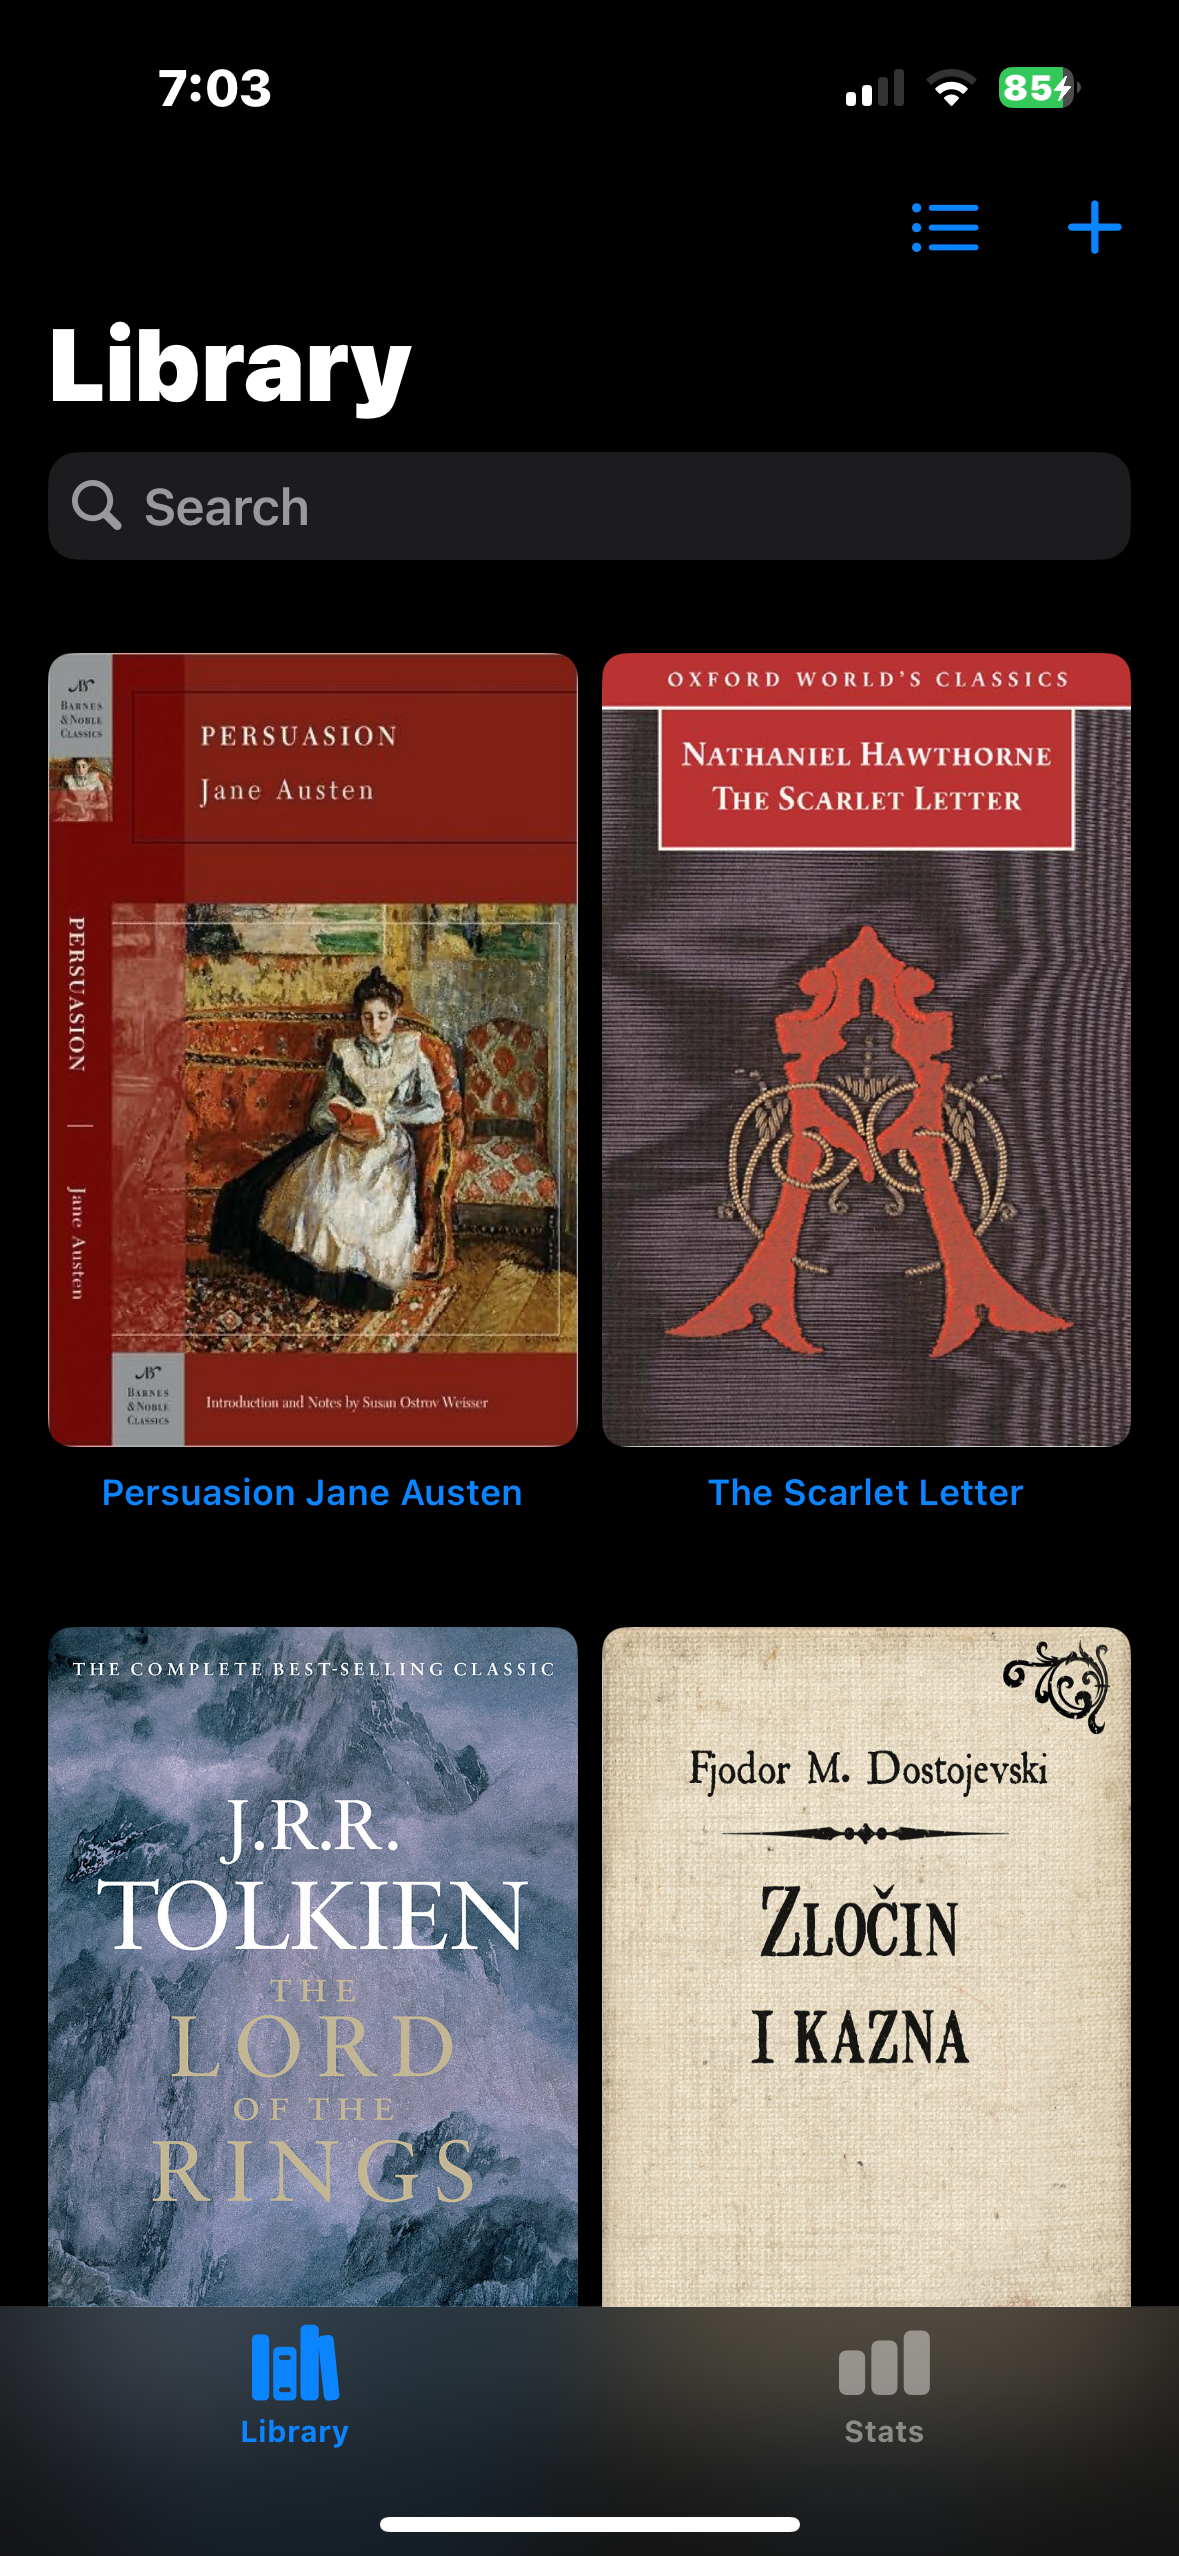
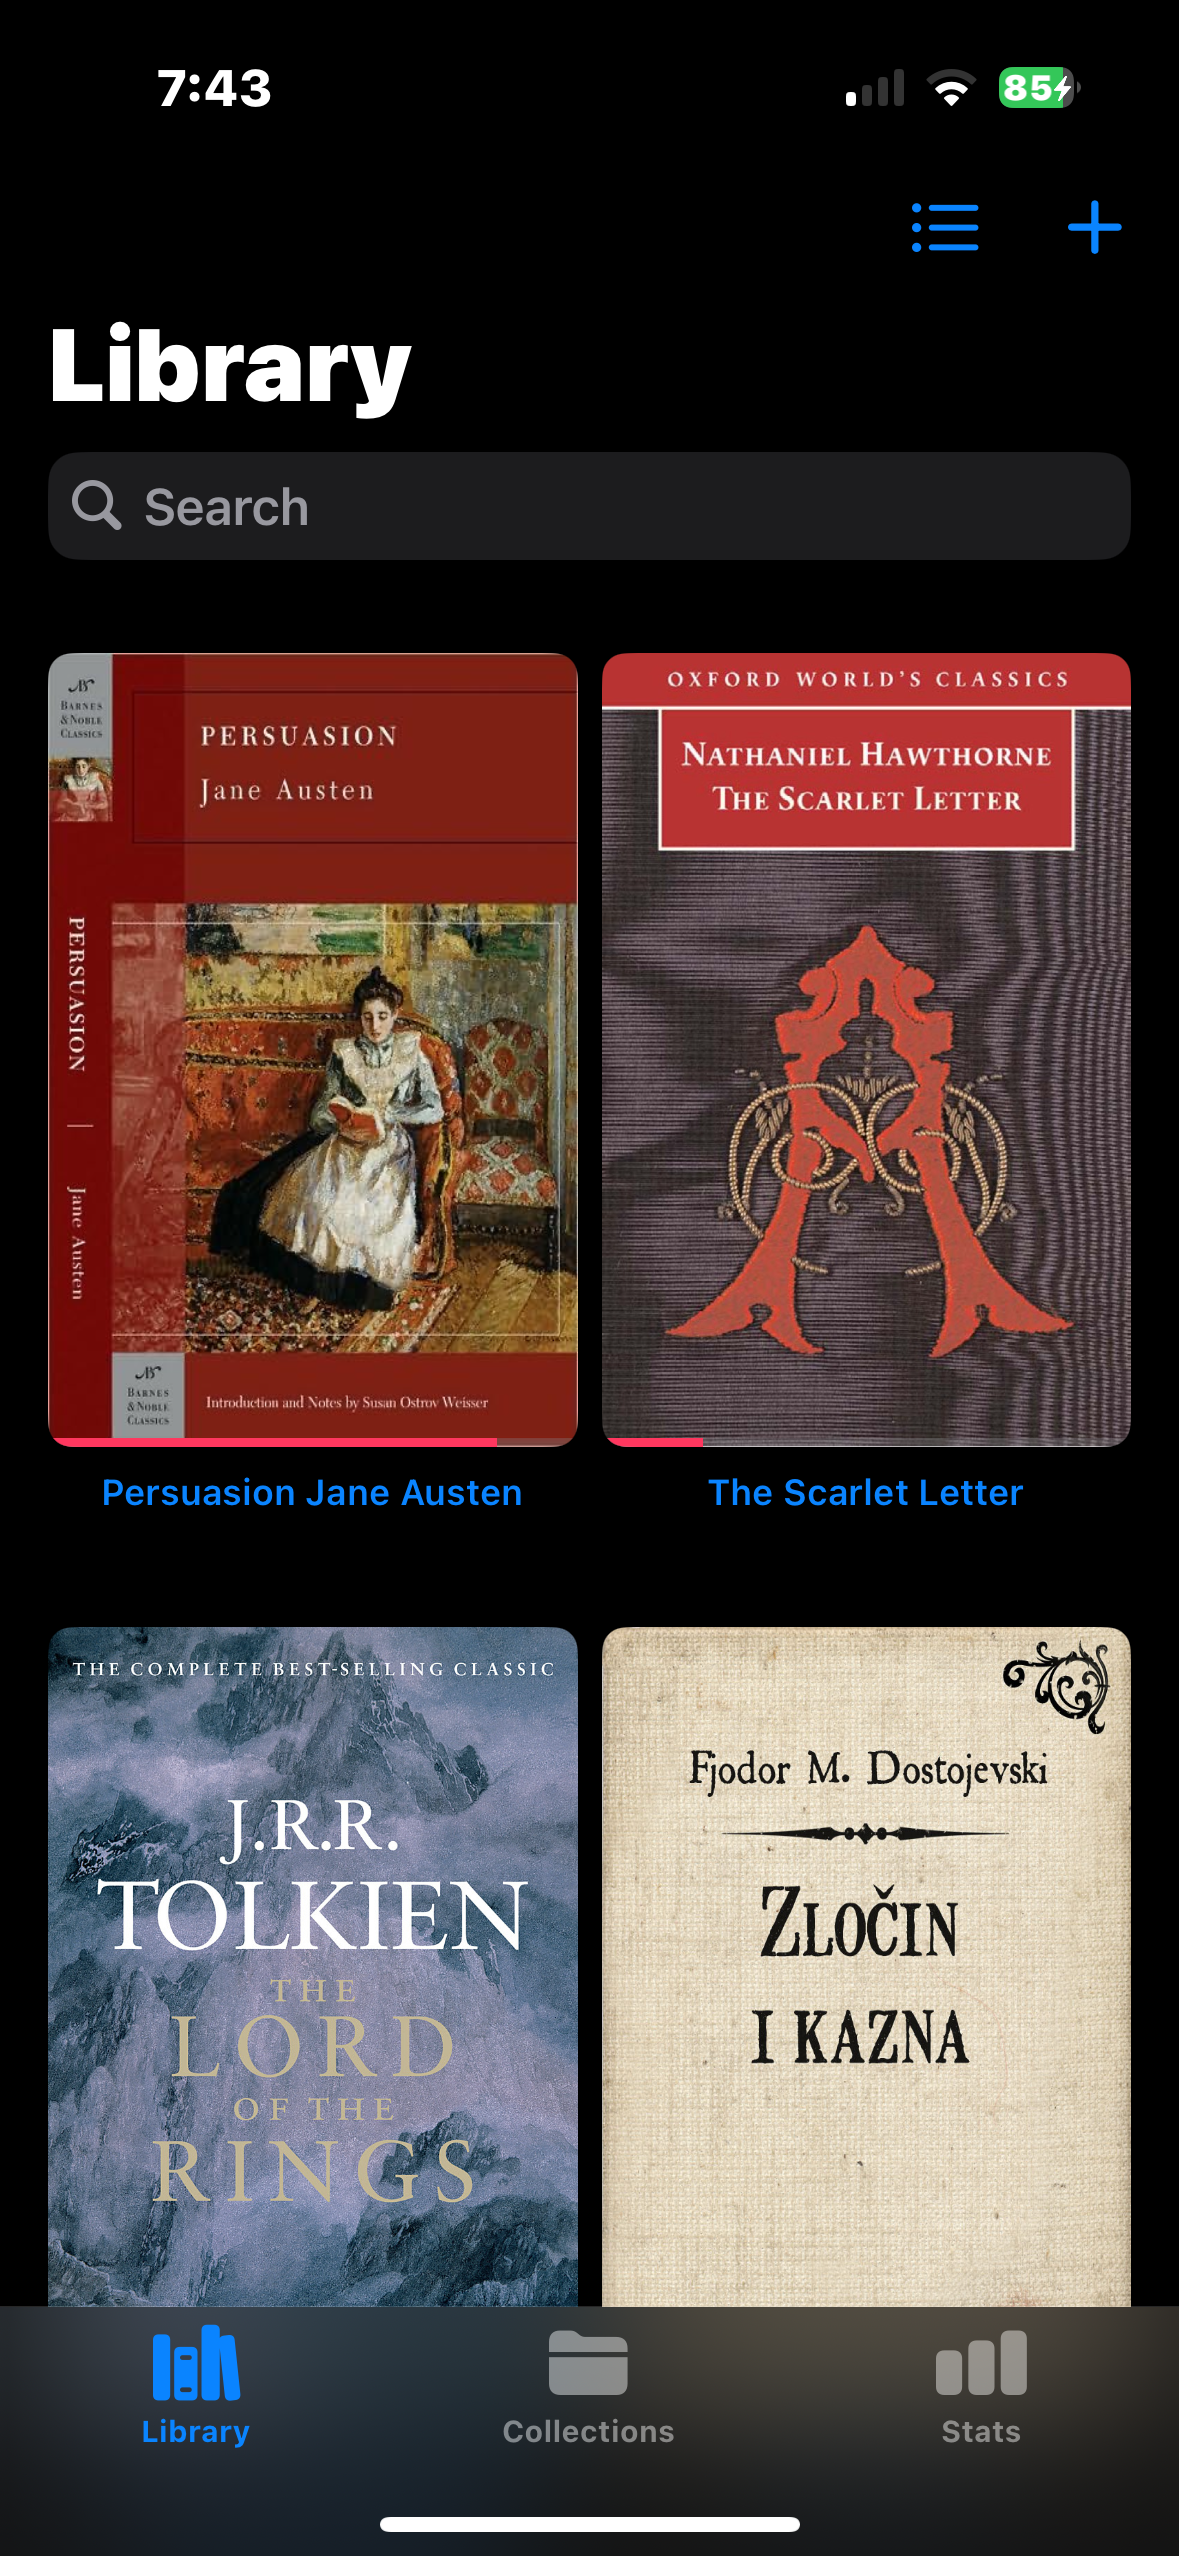
added collections to organize books into shelves

diff --git a/swift-ereader/Views/Library/CollectionDetailView.swift b/swift-ereader/Views/Library/CollectionDetailView.swift
@@ -1,0 +1,122 @@
+import SwiftUI
+import SwiftData
+
+struct CollectionDetailView: View {
+    @Environment(\.modelContext) private var modelContext
+    @Query private var allBooks: [Book]
+    let collection: BookCollection
+    @State private var showAddBooks = false
+
+    var books: [Book] {
+        allBooks.filter { collection.bookIDs.contains($0.filePath) }
+    }
+
+    var body: some View {
+        Group {
+            if books.isEmpty {
+                VStack(spacing: 12) {
+                    Image(systemName: collection.icon)
+                        .font(.system(size: 50))
+                        .foregroundColor(.gray)
+                    Text("No books in this collection")
+                        .foregroundColor(.secondary)
+                    Button("Add Books") {
+                        showAddBooks = true
+                    }
+                }
+            } else {
+                ScrollView {
+                    LazyVGrid(columns: [
+                        GridItem(.adaptive(minimum: 120))
+                    ], spacing: 20) {
+                        ForEach(books) { book in
+                            NavigationLink(destination: readerView(for: book)) {
+                                BookGridItem(book: book)
+                            }
+                            .contextMenu {
+                                Button(role: .destructive) {
+                                    collection.bookIDs.removeAll { $0 == book.filePath }
+                                    try? modelContext.save()
+                                } label: {
+                                    Label("Remove from Collection", systemImage: "minus.circle")
+                                }
+                            }
+                        }
+                    }
+                    .padding()
+                }
+            }
+        }
+        .navigationTitle(collection.name)
+        .toolbar {
+            ToolbarItem(placement: .navigationBarTrailing) {
+                Button {
+                    showAddBooks = true
+                } label: {
+                    Image(systemName: "plus")
+                }
+            }
+        }
+        .sheet(isPresented: $showAddBooks) {
+            AddBooksToCollectionView(collection: collection)
+        }
+    }
+
+    @ViewBuilder
+    private func readerView(for book: Book) -> some View {
+        if book.fileURL.pathExtension.lowercased() == "epub" {
+            EPUBReaderView(book: book)
+        } else {
+            PDFReaderView(book: book)
+        }
+    }
+}
+
+struct AddBooksToCollectionView: View {
+    @Environment(\.modelContext) private var modelContext
+    @Environment(\.dismiss) private var dismiss
+    @Query private var allBooks: [Book]
+    let collection: BookCollection
+
+    var body: some View {
+        NavigationView {
+            List(allBooks) { book in
+                HStack {
+                    if let coverURL = book.coverURL, let image = UIImage(contentsOfFile: coverURL.path) {
+                        Image(uiImage: image)
+                            .resizable()
+                            .frame(width: 30, height: 45)
+                            .clipShape(RoundedRectangle(cornerRadius: 4))
+                    } else {
+                        RoundedRectangle(cornerRadius: 4)
+                            .fill(Color.gray.opacity(0.3))
+                            .frame(width: 30, height: 45)
+                    }
+                    Text(book.title)
+                        .lineLimit(1)
+                    Spacer()
+                    if collection.bookIDs.contains(book.filePath) {
+                        Image(systemName: "checkmark.circle.fill")
+                            .foregroundColor(.pink)
+                    }
+                }
+                .contentShape(Rectangle())
+                .onTapGesture {
+                    if collection.bookIDs.contains(book.filePath) {
+                        collection.bookIDs.removeAll { $0 == book.filePath }
+                    } else {
+                        collection.bookIDs.append(book.filePath)
+                    }
+                    try? modelContext.save()
+                }
+            }
+            .navigationTitle("Add Books")
+            .navigationBarTitleDisplayMode(.inline)
+            .toolbar {
+                ToolbarItem(placement: .navigationBarTrailing) {
+                    Button("Done") { dismiss() }
+                }
+            }
+        }
+    }
+}

diff --git a/swift-ereader/Views/Library/LibraryView.swift b/swift-ereader/Views/Library/LibraryView.swift
@@ -5,6 +5,7 @@ import SwiftData
 struct LibraryView: View{
     @Environment(\.modelContext) private var modelContext
     @Query(sort: \Book.dateAdded, order: .reverse) private var books: [Book]
+    @Query(sort: \BookCollection.dateCreated) private var collections: [BookCollection]
     @State private var showAsList = false
     @State private var searchText = ""
 
@@ -64,6 +65,22 @@ struct LibraryView: View{
                                         .padding(.vertical, 8)
                                     }
                                     .contextMenu {
+                                        if !collections.isEmpty {
+                                            Menu {
+                                                ForEach(collections) { collection in
+                                                    Button {
+                                                        if !collection.bookIDs.contains(book.filePath) {
+                                                            collection.bookIDs.append(book.filePath)
+                                                            try? modelContext.save()
+                                                        }
+                                                    } label: {
+                                                        Label(collection.name, systemImage: collection.bookIDs.contains(book.filePath) ? "checkmark" : "folder")
+                                                    }
+                                                }
+                                            } label: {
+                                                Label("Add to Collection", systemImage: "folder.badge.plus")
+                                            }
+                                        }
                                         Button(role: .destructive) {
                                             deleteBook(book)
                                         } label: {
@@ -82,6 +99,22 @@ struct LibraryView: View{
                                         BookGridItem(book: book)
                                     }
                                     .contextMenu {
+                                        if !collections.isEmpty {
+                                            Menu {
+                                                ForEach(collections) { collection in
+                                                    Button {
+                                                        if !collection.bookIDs.contains(book.filePath) {
+                                                            collection.bookIDs.append(book.filePath)
+                                                            try? modelContext.save()
+                                                        }
+                                                    } label: {
+                                                        Label(collection.name, systemImage: collection.bookIDs.contains(book.filePath) ? "checkmark" : "folder")
+                                                    }
+                                                }
+                                            } label: {
+                                                Label("Add to Collection", systemImage: "folder.badge.plus")
+                                            }
+                                        }
                                         Button(role: .destructive) {
                                             deleteBook(book)
                                         } label: {

diff --git a/swift-ereader/Views/Library/CollectionsView.swift b/swift-ereader/Views/Library/CollectionsView.swift
@@ -1,0 +1,77 @@
+import SwiftUI
+import SwiftData
+
+struct CollectionsView: View {
+    @Environment(\.modelContext) private var modelContext
+    @Query(sort: \BookCollection.dateCreated) private var collections: [BookCollection]
+    @State private var showNewCollection = false
+    @State private var newCollectionName = ""
+
+    var body: some View {
+        NavigationStack {
+            List {
+                ForEach(collections) { collection in
+                    NavigationLink(destination: CollectionDetailView(collection: collection)) {
+                        HStack(spacing: 12) {
+                            Image(systemName: collection.icon)
+                                .foregroundColor(.pink)
+                                .frame(width: 30)
+                            VStack(alignment: .leading) {
+                                Text(collection.name)
+                                    .font(.body)
+                                Text("\(collection.bookIDs.count) books")
+                                    .font(.caption)
+                                    .foregroundColor(.secondary)
+                            }
+                        }
+                    }
+                }
+                .onDelete { indexSet in
+                    for index in indexSet {
+                        modelContext.delete(collections[index])
+                    }
+                    try? modelContext.save()
+                }
+            }
+            .navigationTitle("Collections")
+            .toolbar {
+                ToolbarItem(placement: .navigationBarTrailing) {
+                    Button {
+                        showNewCollection = true
+                    } label: {
+                        Image(systemName: "plus")
+                    }
+                }
+            }
+            .alert("New Collection", isPresented: $showNewCollection) {
+                TextField("Name", text: $newCollectionName)
+                Button("Cancel", role: .cancel) {
+                    newCollectionName = ""
+                }
+                Button("Create") {
+                    if !newCollectionName.isEmpty {
+                        let collection = BookCollection(name: newCollectionName)
+                        modelContext.insert(collection)
+                        try? modelContext.save()
+                        newCollectionName = ""
+                    }
+                }
+            }
+            .overlay {
+                if collections.isEmpty {
+                    VStack(spacing: 12) {
+                        Image(systemName: "folder")
+                            .font(.system(size: 50))
+                            .foregroundColor(.gray)
+                        Text("No collections yet")
+                            .font(.title3)
+                            .foregroundColor(.secondary)
+                        Text("Tap + to create one")
+                            .font(.body)
+                            .foregroundColor(.secondary)
+                    }
+                }
+            }
+        }
+    }
+}

diff --git a/swift-ereader-widget/swift_ereader_widget.swift b/swift-ereader-widget/swift_ereader_widget.swift
@@ -17,7 +17,7 @@ struct Provider: TimelineProvider {
     let container: ModelContainer
 
     init() {
-        let schema = Schema([Book.self, ReadingSession.self, Bookmark.self])
+        let schema = Schema([Book.self, ReadingSession.self, Bookmark.self, BookCollection.self])
         let groupURL = FileManager.default.containerURL(forSecurityApplicationGroupIdentifier: "group.com.jasmina.swift-ereader")!
         let storeURL = groupURL.appendingPathComponent("library.store")
         let config = ModelConfiguration(url: storeURL)

diff --git a/swift-ereader/App/swift_ereaderApp.swift b/swift-ereader/App/swift_ereaderApp.swift
@@ -6,7 +6,7 @@ struct swift_ereaderApp: App {
     let container: ModelContainer
 
     init() {
-        let schema = Schema([Book.self, Bookmark.self, ReadingSession.self])
+        let schema = Schema([Book.self, Bookmark.self, ReadingSession.self, BookCollection.self])
         let groupURL = FileManager.default.containerURL(forSecurityApplicationGroupIdentifier: "group.com.jasmina.swift-ereader")!
         let storeURL = groupURL.appendingPathComponent("library.store")
         let config = ModelConfiguration(url: storeURL)

diff --git a/swift-ereader/Views/MainTabView.swift b/swift-ereader/Views/MainTabView.swift
@@ -9,6 +9,12 @@ struct MainTabView: View {
                     Text("Library")
                 }
 
+            CollectionsView()
+                .tabItem {
+                    Image(systemName: "folder")
+                    Text("Collections")
+                }
+
             StatsView()
                 .tabItem {
                     Image(systemName: "chart.bar")

diff --git a/swift-ereader/Models/BookCollection.swift b/swift-ereader/Models/BookCollection.swift
@@ -1,0 +1,17 @@
+import Foundation
+import SwiftData
+
+@Model
+class BookCollection {
+    var name: String
+    var icon: String
+    var dateCreated: Date
+    var bookIDs: [String]
+
+    init(name: String, icon: String = "folder.fill") {
+        self.name = name
+        self.icon = icon
+        self.dateCreated = Date()
+        self.bookIDs = []
+    }
+}

diff --git a/swift-ereader/Views/Stats/StatsView.swift b/swift-ereader/Views/Stats/StatsView.swift
@@ -111,7 +111,7 @@ struct StatsView: View {
     }
 
     private var totalReadingTime: Double {
-        books.reduce(0) { $0 + $1.totalReadingTime }
+        sessions.reduce(0) { $0 + $1.duration }
     }
 
     private var todayReadingTime: Double {

diff --git a/README.md b/README.md
@@ -11,6 +11,7 @@ just a learning project i built for fun while learning swift
 - bookmarks, table of contents, themes (light/dark/sepia), adjustable font sizes
 - reading stats with streaks and weekly activity
 - home screen widgets
+- collections/shelves to organize books
 - grid and list views in the library
 
 ## requirements
@@ -43,9 +44,9 @@ tap the + button in the library view, pick your epub or pdf files, and they get 
 ```
 swift-ereader/
   App/              - app entry point
-  Models/           - Book, Bookmark, ReadingSession
+  Models/           - Book, Bookmark, ReadingSession, BookCollection
   Views/
-    Library/        - library grid, book cards, import
+    Library/        - library grid, book cards, import, collections
     Reader/         - epub reader, pdf reader, bookmarks, toc
     Stats/          - reading statistics dashboard
   Services/         - book opener, cover extraction
@@ -59,6 +60,7 @@ swift-ereader-widget/  - home screen widgets
 
 <p align="center">
   <img src=".github/library-view.PNG" alt="library view" width="200px">
+  <img src=".github/collections-view.PNG" alt="collections view" width="200px">
   <img src=".github/stats-view.PNG" alt="stats view" width="200px">
 </p>
 </details>
